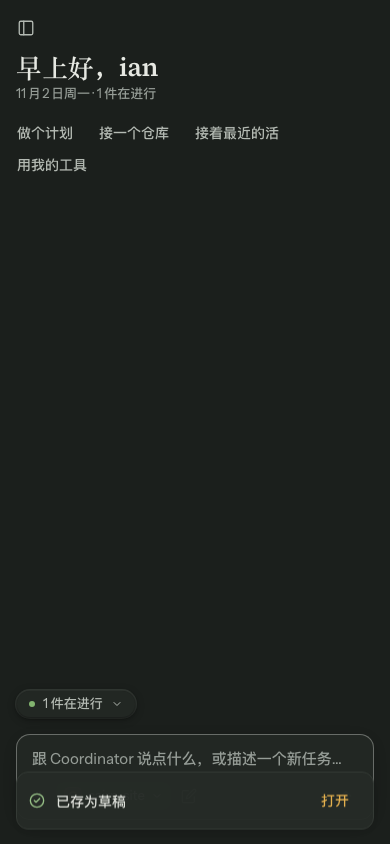
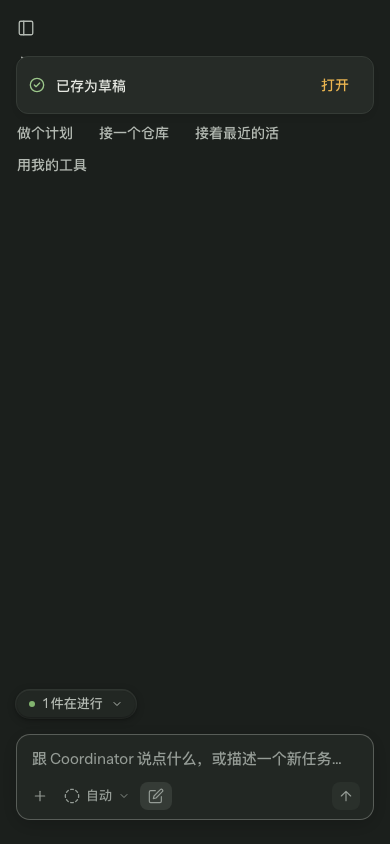
web(2565): toasts anchor top-center, clear of navigation and the composer; the project chip names the Coordinator; Save as draft focus tooltip covered at phone width

diff --git a/apps/web/e2e/home-composer-new-task.spec.ts b/apps/web/e2e/home-composer-new-task.spec.ts
@@ -134,3 +134,50 @@ test('repeated C presses on the home add no history entries', async ({ page }) =
   await expect(composer(page)).toBeFocused();
   expect(await page.evaluate(() => history.length)).toBe(depth);
 });
+
+test('at phone width the icon-only Save as draft has an accessible name and a tooltip on keyboard focus', async ({ page }) => {
+  await page.setViewportSize({ width: 390, height: 844 });
+  await mockWorld(page);
+  await page.goto('/app');
+  const button = page.getByRole('button', { name: '存为草稿，不开始' });
+  await expect(button).toBeVisible();
+  await expect(button.getByText('存为草稿', { exact: true })).toBeHidden();
+  await composer(page).fill('x');
+  await page.getByTestId('chief-project-chip').focus();
+  await page.keyboard.press('Tab');
+  await expect(button).toBeFocused();
+  await expect(page.locator('[data-slot="tooltip-content"]')).toHaveText('存为草稿，不开始');
+});
+
+test('a toast lands over the main column, clear of the sidebar and the composer', async ({ page }) => {
+  const { todoPosts } = await mockWorld(page);
+  await page.goto('/app');
+  await composer(page).fill('Toast placement');
+  await saveDraft(page).click();
+  await expect.poll(() => todoPosts.length).toBe(1);
+  const toast = page.locator('[data-sonner-toast]').first();
+  await expect(toast).toBeVisible();
+  await page.waitForTimeout(500);
+  const box = (await toast.boundingBox())!;
+  const sidebar = (await page.locator('.board-sidebar').boundingBox())!;
+  const composerBox = (await page.getByTestId('home-c').locator('.chief-composer').boundingBox())!;
+  expect(box.x).toBeGreaterThanOrEqual(sidebar.x + sidebar.width);
+  expect(box.y + box.height).toBeLessThanOrEqual(composerBox.y);
+});
+
+test('at phone width a toast lands below the menu button and clear of the composer', async ({ page }) => {
+  await page.setViewportSize({ width: 390, height: 844 });
+  const { todoPosts } = await mockWorld(page);
+  await page.goto('/app');
+  await composer(page).fill('Toast placement narrow');
+  await saveDraft(page).click();
+  await expect.poll(() => todoPosts.length).toBe(1);
+  const toast = page.locator('[data-sonner-toast]').first();
+  await expect(toast).toBeVisible();
+  await page.waitForTimeout(500);
+  const box = (await toast.boundingBox())!;
+  const composerBox = (await page.getByTestId('home-c').locator('.chief-composer').boundingBox())!;
+  const menu = (await page.locator('.app-menu-trigger').boundingBox())!;
+  expect(box.y).toBeGreaterThanOrEqual(menu.y + menu.height);
+  expect(box.y + box.height).toBeLessThanOrEqual(composerBox.y);
+});

diff --git a/apps/web/e2e/chief-project-pick.spec.ts b/apps/web/e2e/chief-project-pick.spec.ts
@@ -197,13 +197,13 @@ test.describe('the drawer composer picks a project (T6 #2009)', () => {
     const state = await mockLive(page);
     await openDrawer(page);
     await expect(chip(page)).toHaveText(/自动/);
-    await expect(chip(page)).toHaveAttribute('aria-label', '发给哪个项目：自动，由总管判断');
+    await expect(chip(page)).toHaveAttribute('aria-label', '发给哪个项目：自动，由 Coordinator 判断');
     await chip(page).click();
     const menu = page.getByRole('menu', { name: '发给哪个项目' });
     await expect(menu).toBeVisible();
     const items = menu.getByRole('menuitemradio');
     await expect(items).toHaveCount(4);
-    await expect(items.nth(0)).toContainText('总管判断，拿不准会问你');
+    await expect(items.nth(0)).toContainText('Coordinator 判断，拿不准会问你');
     await expect(items.nth(0)).toHaveAttribute('aria-checked', 'true');
     await expect(items.nth(2)).toContainText('官网 cairn.xmon.me');
     await shot(page, 'chip-menu.png');

diff --git a/apps/web/src/i18n/en.ts b/apps/web/src/i18n/en.ts
@@ -85,8 +85,8 @@ export const EN: Record<string, string> = {
   '{n} 项待你处理': '{n} waiting on you',
   发给哪个项目: 'Send to which project',
   '发给哪个项目：{name}': 'Send to project: {name}',
-  '自动，由总管判断': 'Auto, the Chief decides',
-  '总管判断，拿不准会问你': 'The Chief decides and asks when unsure',
+  '自动，由 Coordinator 判断': 'Auto, the Coordinator decides',
+  'Coordinator 判断，拿不准会问你': 'The Coordinator decides and asks when unsure',
   换项目: 'Move project',
   已转给任务: 'Passed to task',
   '来自任务 #{n} {title} 的消息': 'Message from task #{n} {title}',

diff --git a/apps/web/src/chief/project-menu.tsx b/apps/web/src/chief/project-menu.tsx
@@ -74,7 +74,7 @@ export function ProjectMenu({
             {withAuto && (
               <DropdownMenuRadioItem value={AUTO_VALUE} closeOnClick className={ITEM_CLS}>
                 <CircleDashed className="mt-0.5 size-4.5 flex-none text-content-tertiary" />
-                <OptionText title={t('自动')} hint={t('总管判断，拿不准会问你')} />
+                <OptionText title={t('自动')} hint={t('Coordinator 判断，拿不准会问你')} />
               </DropdownMenuRadioItem>
             )}
             {projects.map((p, i) => (

diff --git a/apps/web/src/chief/chief-conversation.tsx b/apps/web/src/chief/chief-conversation.tsx
@@ -770,7 +770,7 @@ export function ChiefConversation({
                       data-testid="chief-project-chip"
                       data-set={pickedProject != null ? '' : undefined}
                       aria-label={t('发给哪个项目：{name}', {
-                        name: pickedProject?.name ?? t('自动，由总管判断'),
+                        name: pickedProject?.name ?? t('自动，由 Coordinator 判断'),
                       })}
                       className={PROJECT_CHIP_CLS}
                     />

diff --git a/apps/web/src/components/ui/toaster.tsx b/apps/web/src/components/ui/toaster.tsx
@@ -35,7 +35,9 @@ function Toaster({ ...props }: ToasterProps) {
   return (
     <Sonner
       theme={theme}
-      position="bottom-left"
+      position="top-center"
+      offset={{ top: 16 }}
+      mobileOffset={{ top: 56, left: 16, right: 16 }}
       className="group"
       icons={{
         success: <CircleCheck className="size-4 text-running-text" />,
